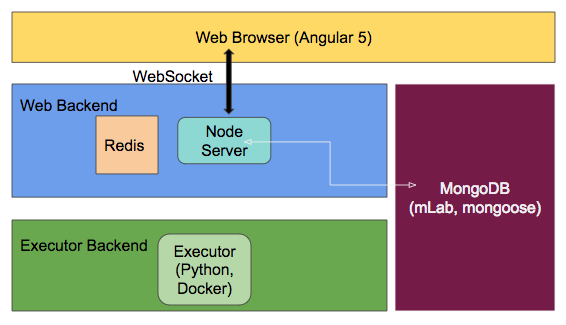
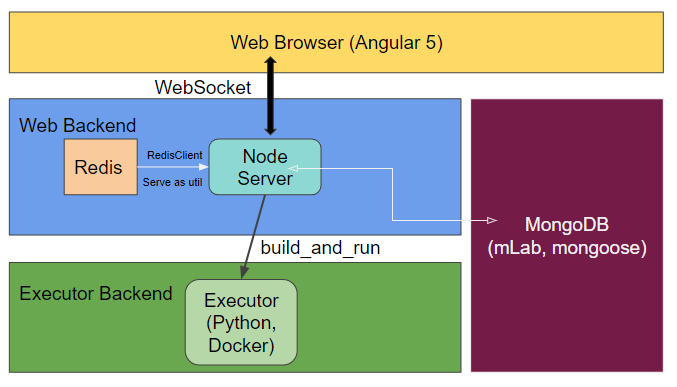
added sys design diagram to readme

Changed region(s): [[0.0, 0.0308, 0.9912, 0.9846]]

diff --git a/README.md b/README.md
@@ -12,7 +12,8 @@ This is a collaborative online coding platform. The idea is initiated from some 
 ### Design Diagram
 ##### Architectural Overview
 ![alt text](./diagrams/architecturalOverview.png "Architectural Overview")
-
+##### System Design Diagram
+![alt text](./diagrams/systemDesignDiagram.png "System Design Diagram")
 
 ### Learning Outcomes
 
